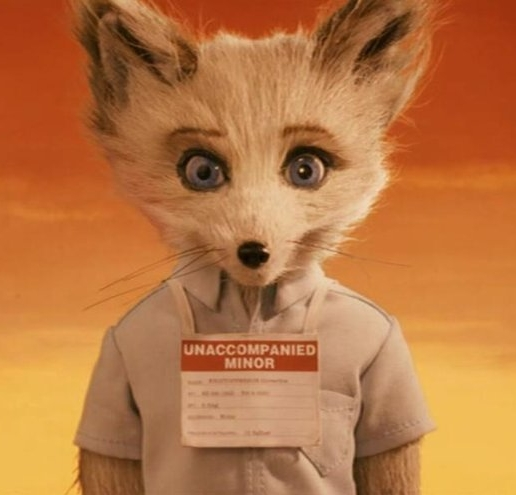
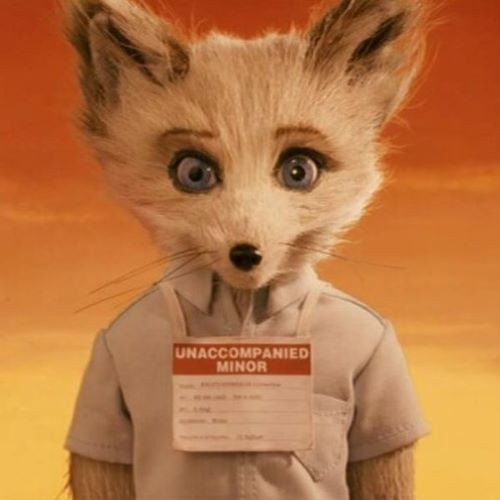
added photo

diff --git a/index.html b/index.html
@@ -63,7 +63,7 @@
                     </p>
                 </div>
                 <div class="content-img">
-                    <img class="content-image" src="assets/images/Hero-img.jpg">
+                    <img class="content-image" src="assets/images/My_Photo.jpg">
                 </div>
             </div>
 
